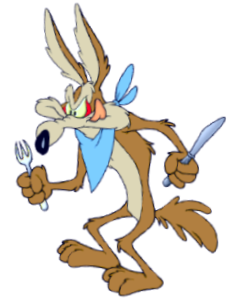
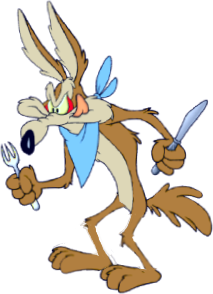
working on animation

diff --git a/src/org/academiadecodigo/loopeytunes/EpicGame/Game.java b/src/org/academiadecodigo/loopeytunes/EpicGame/Game.java
@@ -19,8 +19,10 @@ public class Game implements KeyboardHandler {
     private final Field field;
     private static boolean gameOn = false;
     private static Food foodItem = new Food(0, "Pics/Transparent.png", FoodType.GOOD);
-    private Character player1;
-    private Character player2;
+    private static Character taz;
+    private static Character coyote;
+    private static String[] tazAnimation = new String[]{"Pics/Taz2.1.png", "Pics/Taz2.2.png", "Pics/Taz2.3.png", "Pics/Taz2.2.png"};
+    private static String[] coyoteAnimation = new String[]{"Pics/coyote2.png", "Pics/coyote2.2.png"};
     private Text scorePlayer1;
     private Text scorePlayer1Shadow;
     private Text scorePlayer2;
@@ -34,6 +36,7 @@ public class Game implements KeyboardHandler {
 
     public void start() throws InterruptedException {
         playersCreation();
+
         while (!gameOn) {
             Thread.sleep(MINDELAY);
         }
@@ -51,16 +54,12 @@ public class Game implements KeyboardHandler {
             playersAppearance();
             scoreUpdate();
 
-            while (!(player1.hasReachedForFood() || player2.hasReachedForFood())){
-               // player1.getsAlive();
-               // player2.getsAlive();
-            }
+            animation();
 
-
-            Thread.sleep((int) (Math.random() * (MAXDELAY - MINDELAY) + MINDELAY));
             foodItem = FoodFactory.makeFood();
-            Thread.sleep(MAXDELAY / 2);
 
+            Thread.sleep(MAXDELAY / 2);
+            animation();
             foodItem.getPicture().delete();
 
         }
@@ -68,24 +67,35 @@ public class Game implements KeyboardHandler {
         gameOver();
     }
 
+    public void animation() throws InterruptedException {
+        int counter = 0;
+        while (!(taz.hasReachedForFood() || coyote.hasReachedForFood()) && counter<5) {
+            taz.getsAlive(tazAnimation);
+            coyote.getsAlive(coyoteAnimation);
+            Thread.sleep(200);
+            counter++;
+
+        }
+    }
+
     public void playersCreation() {
-        player1 = new Character();
-        player2 = new Character();
+        taz = new Character();
+        coyote = new Character();
     }
 
     public void playersAppearance() {
-        player1.changePic(230, 350, "Pics/Taz2.png");
-        player2.changePic(870, 350, "Pics/coyote2.png");
+        taz.changePic(230, 350, "Pics/Taz2.2.png");
+        coyote.changePic(870, 350, "Pics/coyote2.png");
     }
 
     public void commandsOn() {
-        Keyboard kbPlayer1 = new Keyboard(player1);
+        Keyboard kbPlayer1 = new Keyboard(taz);
         KeyboardEvent aPressed = new KeyboardEvent();
         KeyboardEvent aDpressed = new KeyboardEvent();
         setCommands(aPressed, KeyboardEvent.KEY_A, KeyboardEventType.KEY_PRESSED);
         setCommands(aDpressed, KeyboardEvent.KEY_A, KeyboardEventType.KEY_RELEASED);
 
-        Keyboard kbPlayer2 = new Keyboard(player2);
+        Keyboard kbPlayer2 = new Keyboard(coyote);
         KeyboardEvent kPressed = new KeyboardEvent();
         KeyboardEvent kDpressed = new KeyboardEvent();
         setCommands(kPressed, KeyboardEvent.KEY_K, KeyboardEventType.KEY_PRESSED);
@@ -105,10 +115,10 @@ public class Game implements KeyboardHandler {
     }
 
     public void scoreAppear() {
-        scorePlayer1Shadow = new Text(93, 51, "Score: " + player1.getScore());
-        scorePlayer1 = new Text(90, 50, "Score: " + player1.getScore());
-        scorePlayer2Shadow = new Text(1153, 51, "Score: " + player2.getScore());
-        scorePlayer2 = new Text(1150, 50, "Score: " + player2.getScore());
+        scorePlayer1Shadow = new Text(93, 51, "Score: " + taz.getScore());
+        scorePlayer1 = new Text(90, 50, "Score: " + taz.getScore());
+        scorePlayer2Shadow = new Text(1153, 51, "Score: " + coyote.getScore());
+        scorePlayer2 = new Text(1150, 50, "Score: " + coyote.getScore());
 
         field.drawText(scorePlayer1, scorePlayer1Shadow, 40, 15, Color.YELLOW);
         field.drawText(scorePlayer2, scorePlayer2Shadow, 40, 15, Color.YELLOW);
@@ -116,20 +126,20 @@ public class Game implements KeyboardHandler {
     }
 
     public void scoreUpdate() {
-        scorePlayer1.setText("Score: " + player1.getScore());
-        scorePlayer1Shadow.setText("Score: " + player1.getScore());
-        scorePlayer2.setText("Score: " + player2.getScore());
-        scorePlayer2Shadow.setText("Score: " + player2.getScore());
+        scorePlayer1.setText("Score: " + taz.getScore());
+        scorePlayer1Shadow.setText("Score: " + taz.getScore());
+        scorePlayer2.setText("Score: " + coyote.getScore());
+        scorePlayer2Shadow.setText("Score: " + coyote.getScore());
     }
 
     private void gameOver() {
-        if (player1.getScore() > player2.getScore()) {
+        if (taz.getScore() > coyote.getScore()) {
             System.out.println("Player 1 wins");
             field.playerOneVictory();
             return;
         }
 
-        if (player1.getScore() == player2.getScore()) {
+        if (taz.getScore() == coyote.getScore()) {
             System.out.println("It's a tie");
             field.tie();
             return;

diff --git a/src/org/academiadecodigo/loopeytunes/EpicGame/GameObjects/Character.java b/src/org/academiadecodigo/loopeytunes/EpicGame/GameObjects/Character.java
@@ -10,15 +10,24 @@ import java.util.TimerTask;
 public class Character extends GameObjects implements KeyboardHandler {
 
     private boolean reachedForFood;
-
+    private int lastPicCounter;
 
     public Character() {
         super(0);
     }
 
-    public void getsAlive(){
-
+    public void getsAlive(String[] animation) {
+        int size = animation.length;
+        int r = lastPicCounter % size;
+        if (r < size-1) {
+            changePic(col, row, animation[r + 1]);
+            lastPicCounter++;
+            return;
+        }
+        changePic(col,row,animation[0]);
+        lastPicCounter++;
     }
+
 
     public void eat(int score, int col, int row, String path) {
         changePic(col, row, path);
@@ -46,15 +55,15 @@ public class Character extends GameObjects implements KeyboardHandler {
     @Override
     public void keyPressed(KeyboardEvent keyboardEvent) {
         if (keyboardEvent.getKey() == KeyboardEvent.KEY_A) {
+            reachedForFood = true;
             if (!Game.getFoodItem().wasEaten() && Game.isGameOn()) {
-                reachedForFood = true;
                 eat(Game.getFoodItem().score, 230, 350, "Pics/Taz1.png");
             }
         }
 
         if (keyboardEvent.getKey() == KeyboardEvent.KEY_K) {
+            reachedForFood = true;
             if (!Game.getFoodItem().wasEaten() && Game.isGameOn()) {
-                reachedForFood = true;
                 eat(Game.getFoodItem().score, 680, 350, "Pics/Coyote1.png");
 
             }
@@ -69,12 +78,12 @@ public class Character extends GameObjects implements KeyboardHandler {
                 @Override
                 public void run() {
                     if (Game.isGameOn()) {
-                        changePic(230, 350, "Pics/Taz2.png");
-                        reachedForFood = false;
+                        changePic(230, 350, "Pics/Taz2.2.png");
                     }
                 }
             };
             timer.schedule(task, 300);
+            reachedForFood = false;
 
         }
 
@@ -85,11 +94,11 @@ public class Character extends GameObjects implements KeyboardHandler {
                 public void run() {
                     if (Game.isGameOn()) {
                         changePic(870, 350, "Pics/Coyote2.png");
-                        reachedForFood = false;
                     }
                 }
             };
             timer.schedule(task, 300);
+            reachedForFood = false;
 
         }
     }

diff --git a/src/org/academiadecodigo/loopeytunes/EpicGame/GameObjects/GameObjects.java b/src/org/academiadecodigo/loopeytunes/EpicGame/GameObjects/GameObjects.java
@@ -5,16 +5,19 @@ import org.academiadecodigo.simplegraphics.pictures.Picture;
 public class GameObjects {
     protected int score;
     protected Picture body;
+    protected int col;
+    protected int row;
 
     public GameObjects(int score) {
         this.score = score;
     }
 
-    public void changePic(int col,int row,String src) {
+    public void changePic(int col, int row, String src) {
         if (body != null) {
             body.delete();
         }
-
+        this.col = col;
+        this.row = row;
         body = new Picture(col, row, src);
         body.draw();
     }
